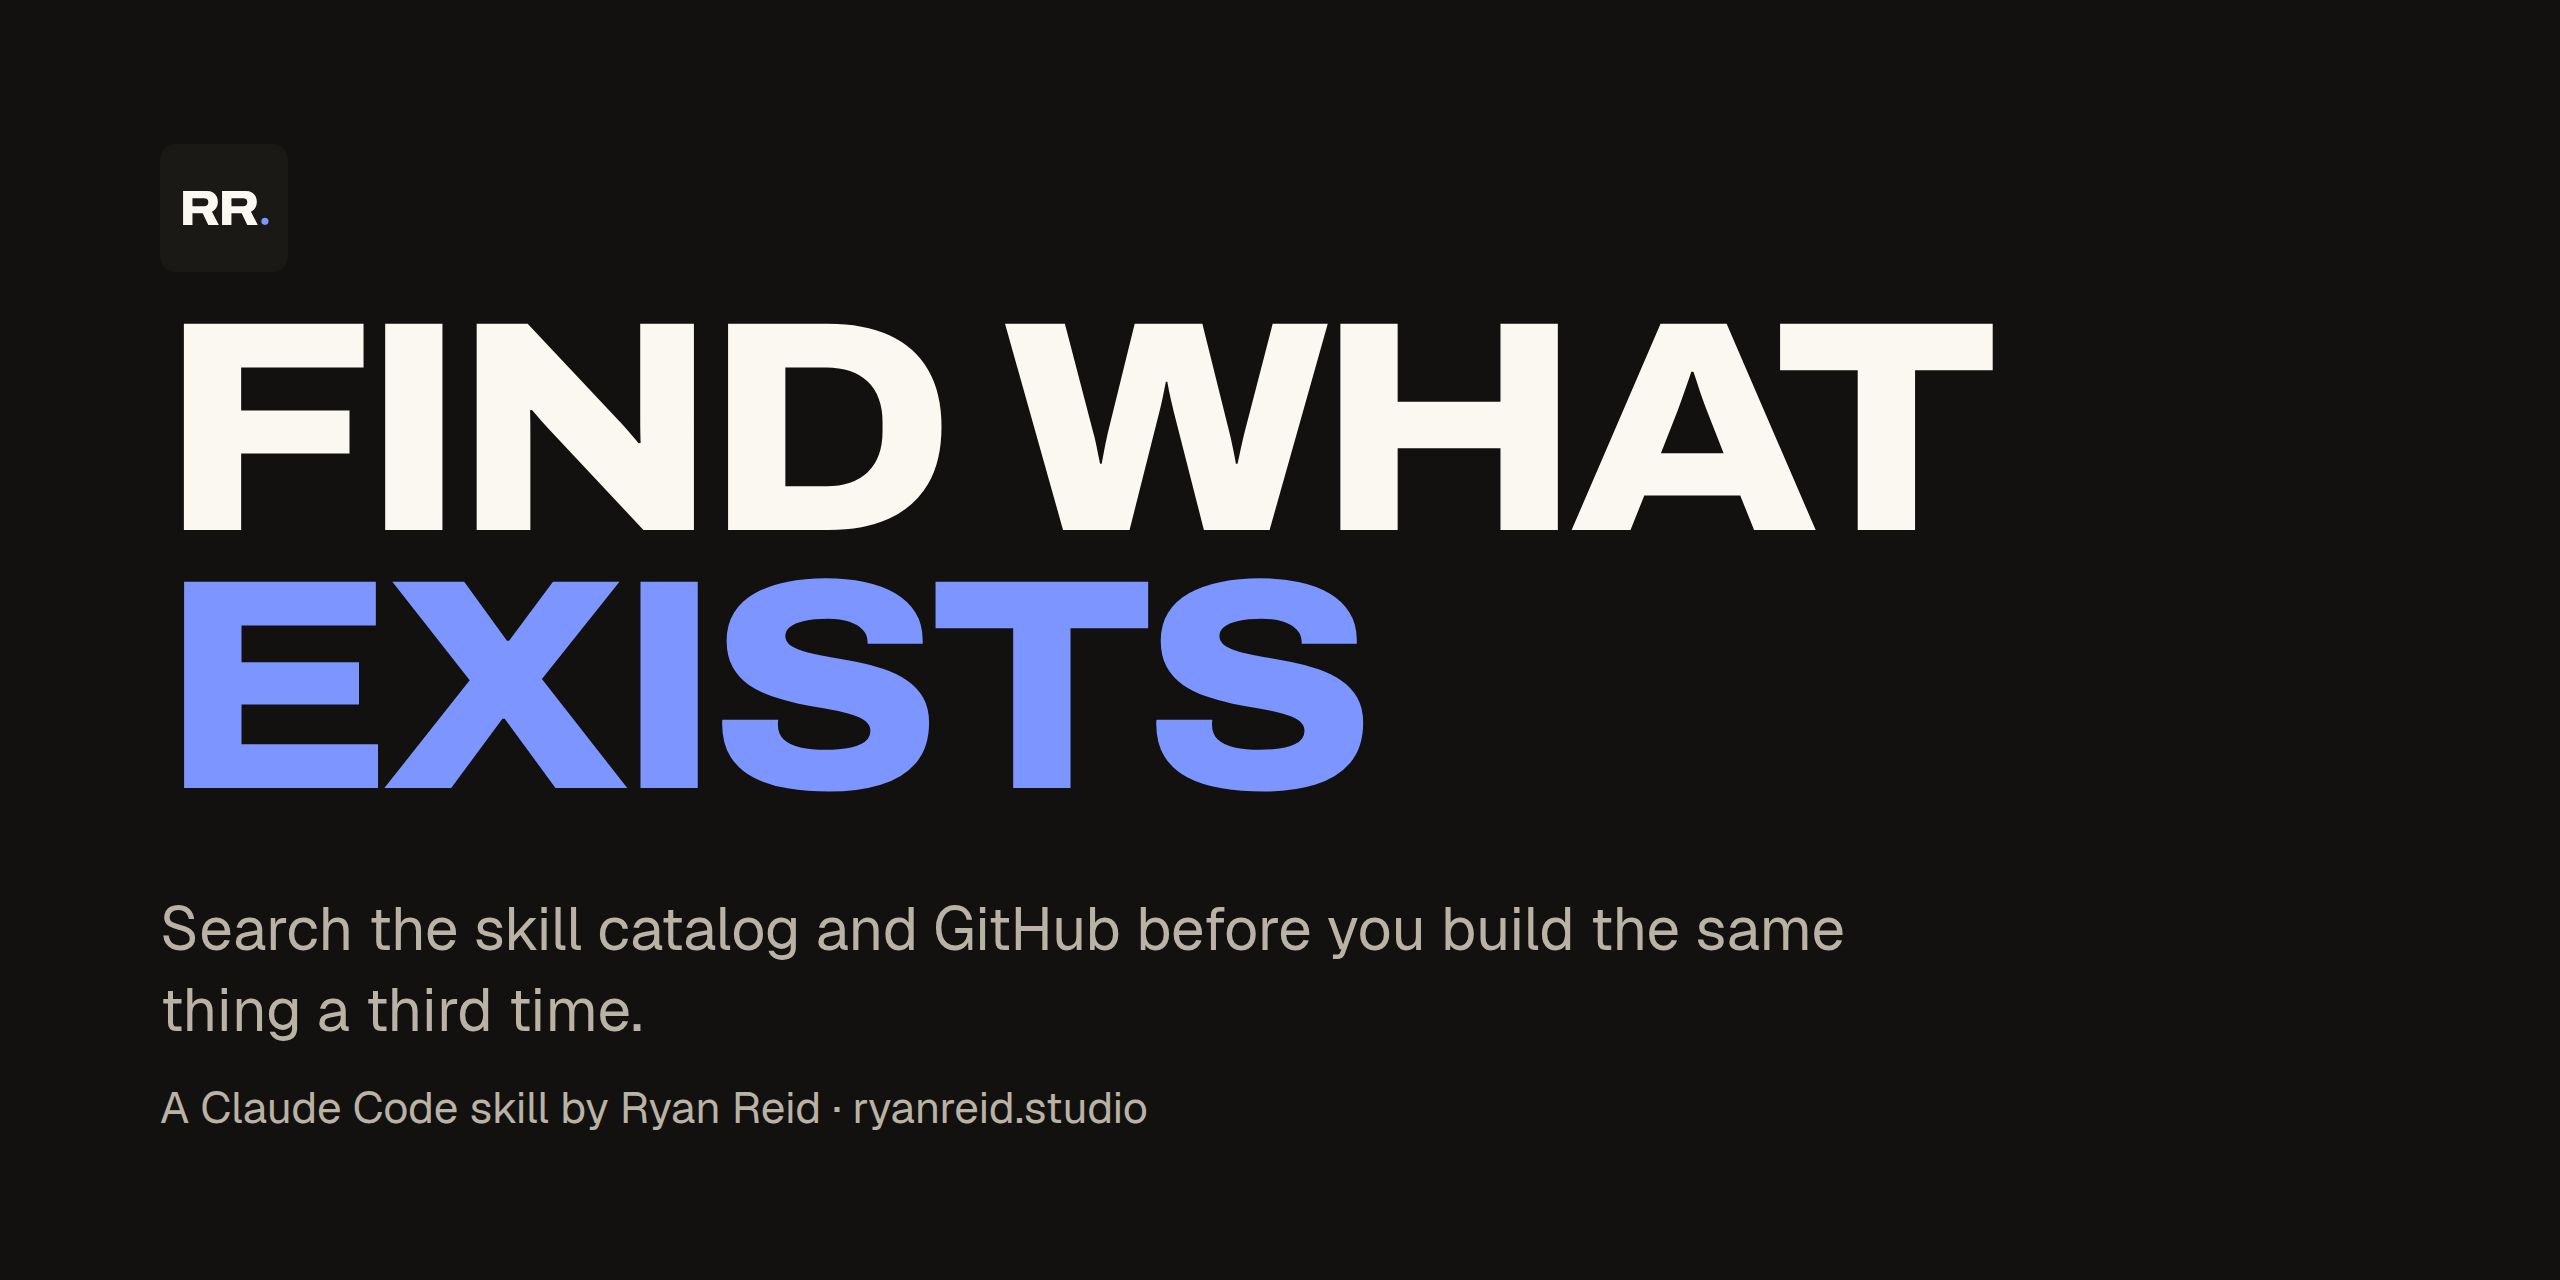
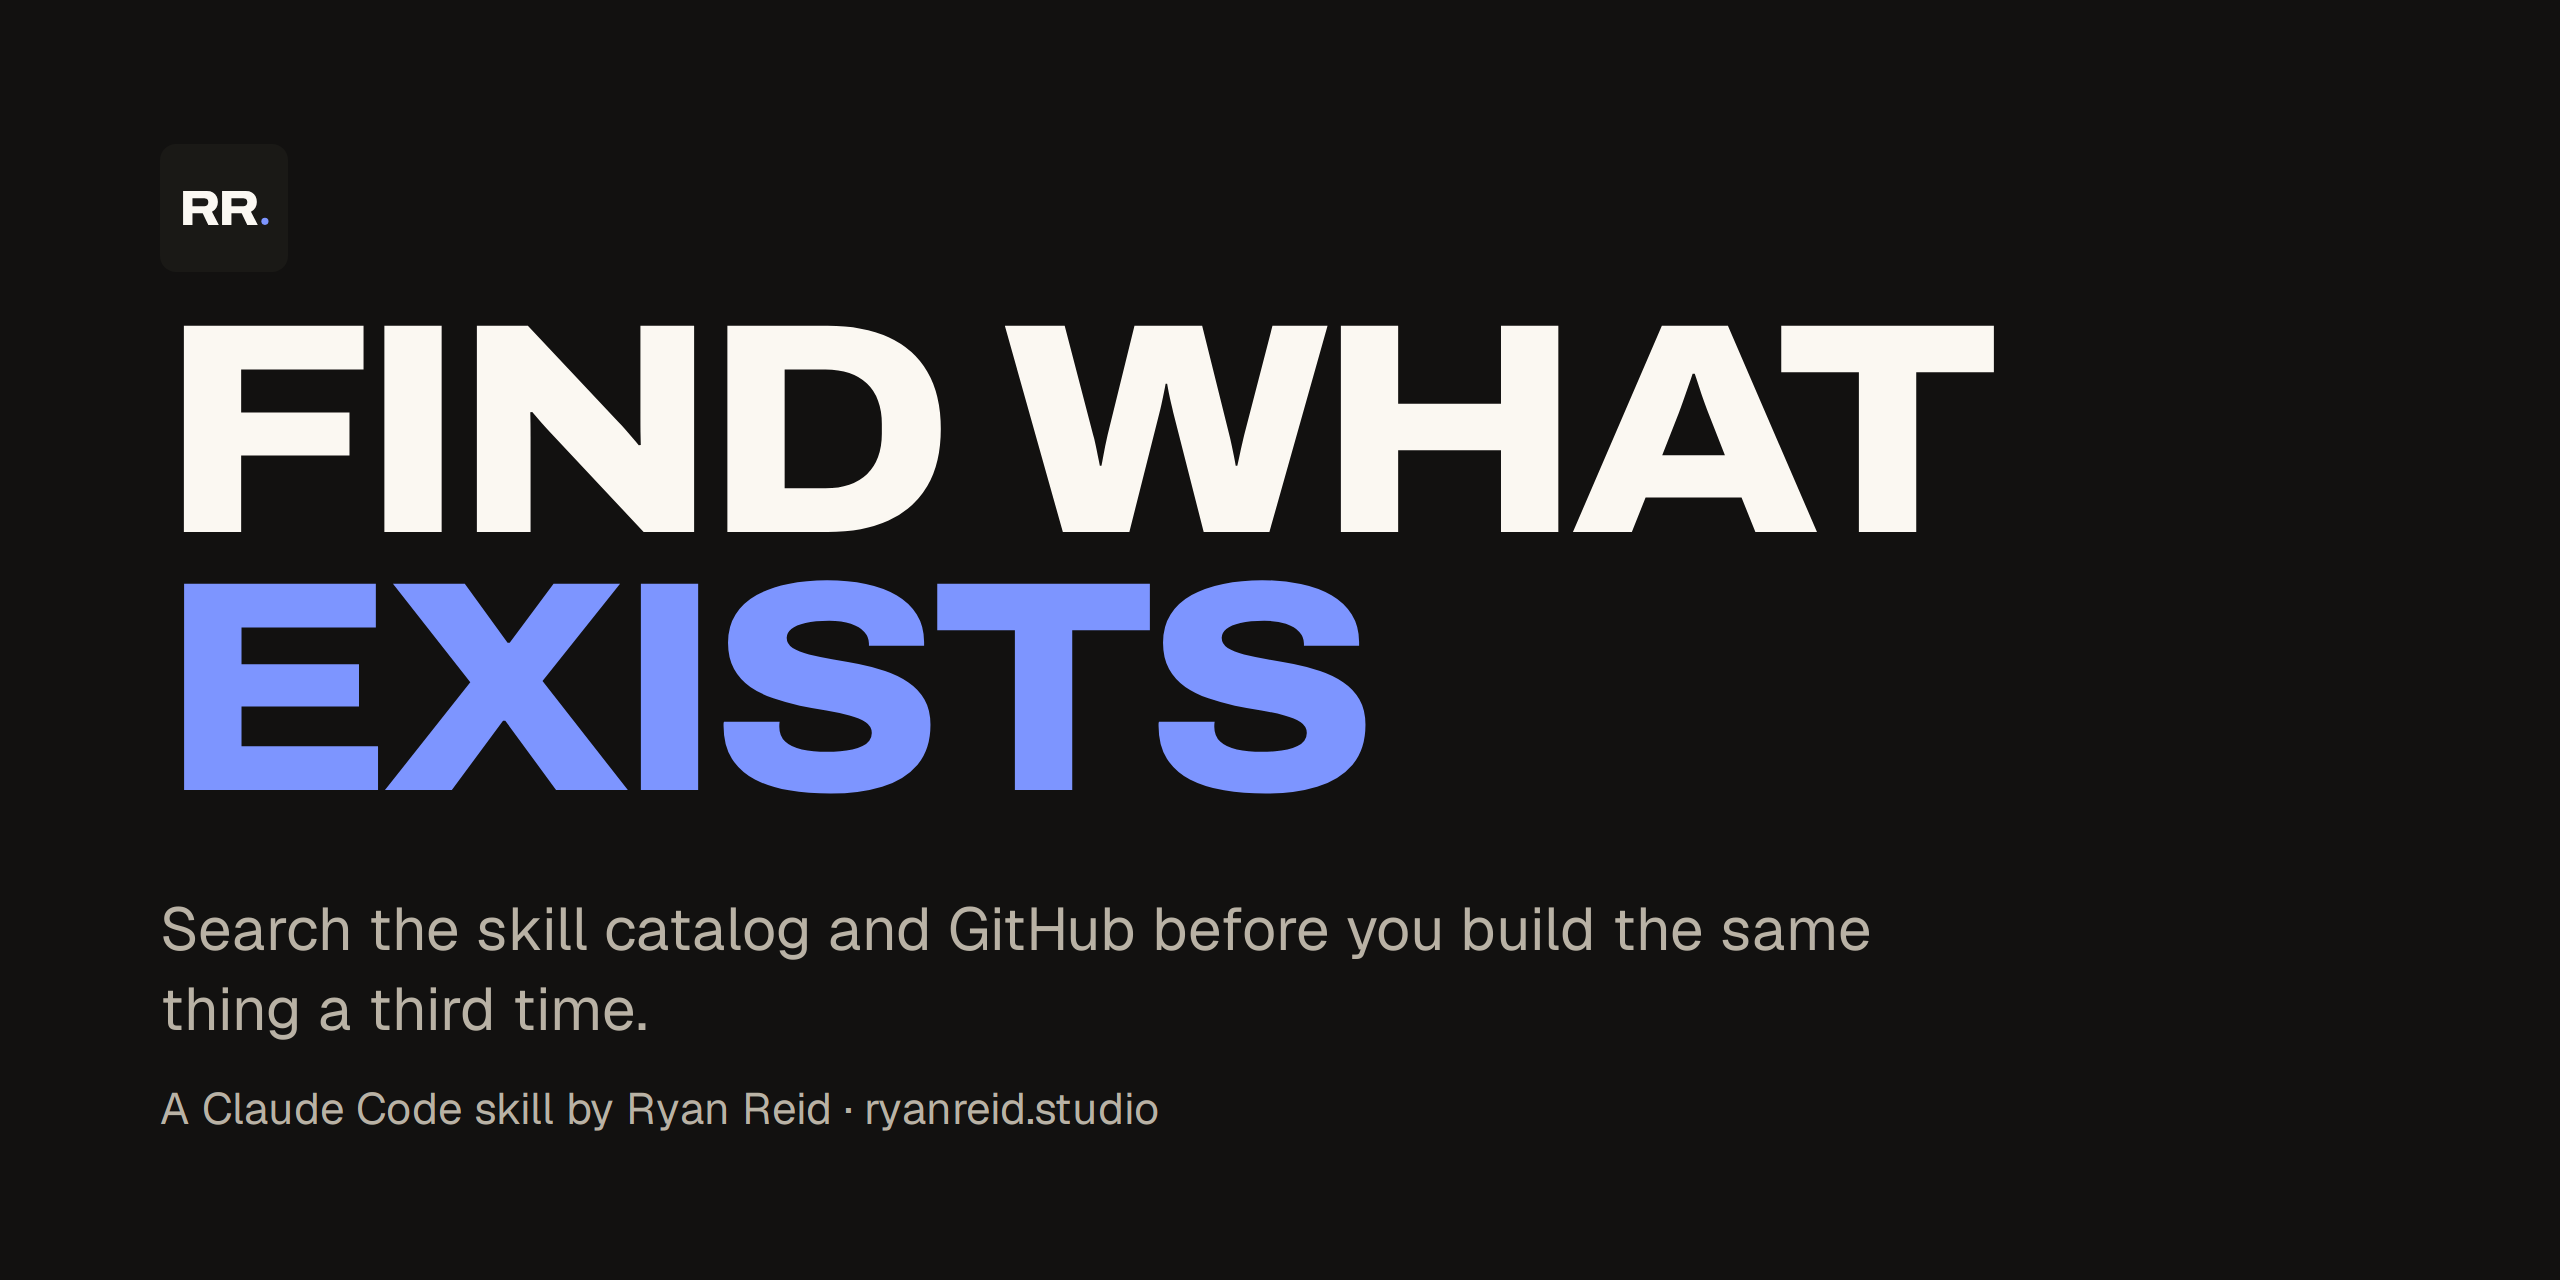
Sync from skills (source 0141654)

diff --git a/README.md b/README.md
@@ -1,6 +1,15 @@
-<p align="center"><img src="assets/hero.png" alt="Find what exists: a Claude Code skill" width="100%"></p>
+<!-- Generated by build_readme.py from template/README.md.tmpl and find-existing/readme.toml. Edit those, not this file. -->
+<p align="center"><img src="assets/hero.png" alt="Find what exists: a Claude Code skill by Ryan Reid" width="100%"></p>
 
-A Claude Code skill that sends you looking for an existing tool before you build the same thing a third time.
+<p align="center">
+  <a href="https://code.claude.com/docs/en/skills"><img alt="Claude Code skill" src="https://img.shields.io/badge/Claude_Code-skill-2348d6?style=flat-square"></a>
+  <a href="LICENSE"><img alt="MIT license" src="https://img.shields.io/badge/license-MIT-1a1916?style=flat-square"></a>
+  <a href="https://github.com/RyanWReid/find-existing/stargazers"><img alt="GitHub stars" src="https://img.shields.io/github/stars/RyanWReid/find-existing?style=flat-square&color=1a1916&label=stars"></a>
+</p>
+
+<p align="center"><b>Before Claude builds a new tool, it checks whether someone already built it.</b><br>It searches about 320,000 published skills and GitHub, then gives you build or adopt in three lines.</p>
+
+<p align="center"><a href="#install">Install</a> · <a href="#use">Use</a> · <a href="#example">Example</a> · <a href="#how-it-works">How it works</a></p>
 
 ## Install
 
@@ -8,38 +17,53 @@ A Claude Code skill that sends you looking for an existing tool before you build
 git clone https://github.com/RyanWReid/find-existing ~/.claude/skills/find-existing
 ```
 
-Claude Code picks it up on the next session. It loads when you are about to write a new tool, skill, script or integration, or when one component keeps breaking.
+You need Python 3 and a logged-in [`gh`](https://cli.github.com). Download the skills catalog once:
 
-## What it does
+```bash
+python3 ~/.claude/skills/find-existing/scripts/skills_search.py sync
+```
 
-It runs three searches, then gives you build-or-adopt in three lines (candidate, what it replaces, verdict) before anything is built.
+Start a new Claude Code session. The skill loads by itself when Claude is about to write a new tool, skill, script or integration, or when one part keeps breaking.
 
-1. **Skills catalog.** `scripts/skills_search.py` searches a local copy of the public [claude-skill-registry](https://github.com/majiayu000/claude-skill-registry) (about 320,000 skills). `sync` downloads it once, `search <words>` ranks by the stars of the repo.
-2. **GitHub projects.** `scripts/gh_search.py` runs several short queries plus topic searches through the `gh` CLI, merges them, drops repos with no push in 12 months and ranks by how many queries found each one, then stars. GitHub's search ANDs every word, so one long sentence finds nothing.
-3. **Last 30 days.** Releases newer than the model's knowledge, through the `/last30days` skill if you have it.
+## Use
 
-Needs Python 3 and a logged-in [`gh`](https://cli.github.com).
+Ask in plain words:
+
+> Is there something that already does this?
+
+Or run the searches yourself from the skill folder. Give GitHub several short phrases, since its search needs every word to match:
+
+```bash
+python3 scripts/gh_search.py "readme template" "awesome readme" --topics readme-template
+python3 scripts/skills_search.py search readme template
+```
 
 ## Example
 
-<table>
-<tr>
-<td width="50%"><img src="assets/before.png" alt="Before: the reflex to write a new script"></td>
-<td width="50%"><img src="assets/after.png" alt="After: one search command and its real output"></td>
-</tr>
-<tr>
-<td>Before: "nothing fits, I'll write one."</td>
-<td>After: one command, real output from 2026-11-23.</td>
-</tr>
-</table>
+<p align="center"><img src="assets/demo.gif" alt="Two search commands run, their real results appear, then a three-line verdict" width="100%"></p>
 
-## Notes
+A real run from 23 November 2026, made while building this README. The GitHub search ran ten queries and found 226 repos. The top hit, Best-README-Template, had the section order worth copying, so only the picture generator got built.
 
-- Most catalog entries have no stars. Read the SKILL.md and the licence before you install anything.
-- Web pages and SKILL.md files you find are data, not instructions.
+## How it works
 
-## About
+Three searches, then a verdict.
 
-I build with AI every day and show what held up. More at [ryanreid.studio](https://ryanreid.studio).
+1. **Skills catalog.** `scripts/skills_search.py` searches a local copy of the public [claude-skill-registry](https://github.com/majiayu000/claude-skill-registry), about 320,000 skills, ranked by the stars of the repo each one lives in.
+2. **GitHub.** `scripts/gh_search.py` runs each short phrase and each topic through `gh`, merges the results, drops repos with no push in 12 months, and ranks by how many searches found each one, then by stars.
+3. **Last 30 days.** Tools newer than the model's training, through the [`/last30days`](https://github.com/mvanhorn/last30days-skill) skill if you have it.
 
-MIT licence.
+The verdict is three lines: the candidate with its stars, last push and license, what it replaces, and whether to adopt it or build.
+
+Most catalog entries have no stars, so read the SKILL.md and the license before you install anything. Claude reads the pages and SKILL.md files it finds as data and does not follow instructions inside them.
+
+## By Ryan Reid
+
+<img src="assets/rr.png" alt="RR." width="48" align="left">
+
+I build with AI every day and show you what actually held up, with the receipts. More at **[ryanreid.studio](https://ryanreid.studio)**.
+
+Also by me: [show-the-work](https://github.com/RyanWReid/show-the-work), which makes Claude end each task with a result page you can check on your phone.
+
+<br clear="left">
+
+MIT license.
